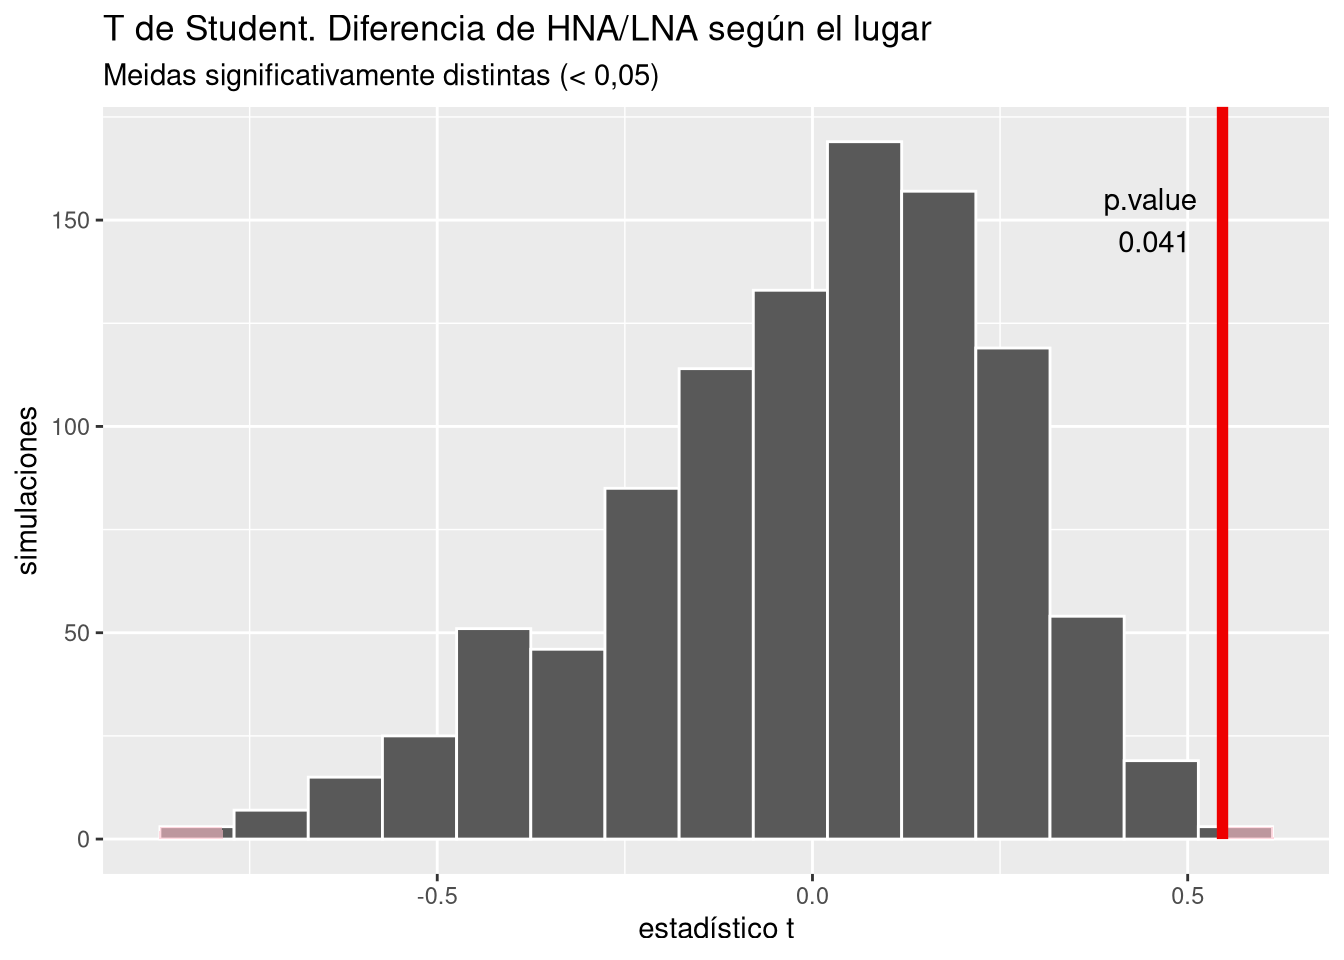
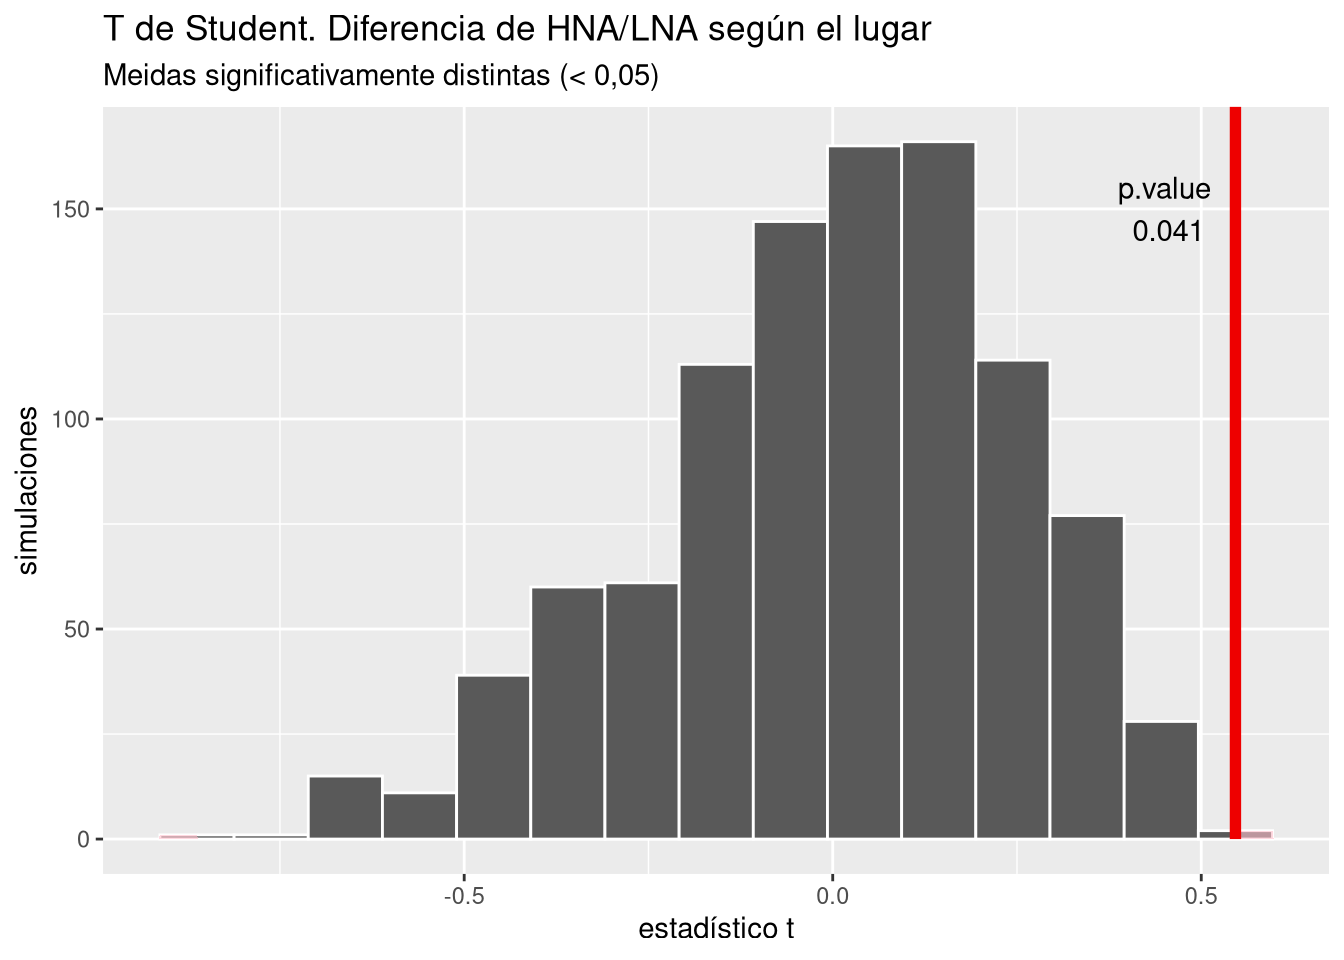
Añadido ANOVA de ratio HNA/LNA según el mes

diff --git a/docs/citometria.html b/docs/citometria.html
@@ -403,6 +403,20 @@ Figura&nbsp;10
 </div>
 </div>
 </div>
+<div class="cell">
+<div class="cell-output-display">
+<div id="fig-f-ratio-mes" class="quarto-float quarto-figure quarto-figure-center anchored" width="672">
+<figure class="quarto-float quarto-float-fig figure">
+<div aria-describedby="fig-f-ratio-mes-caption-0ceaefa1-69ba-4598-a22c-09a6ac19f8ca">
+<img src="citometria_files/figure-html/fig-f-ratio-mes-1.png" id="fig-f-ratio-mes" class="img-fluid figure-img" width="672">
+</div>
+<figcaption class="quarto-float-caption-bottom quarto-float-caption quarto-float-fig quarto-uncaptioned" id="fig-f-ratio-mes-caption-0ceaefa1-69ba-4598-a22c-09a6ac19f8ca">
+Figura&nbsp;11
+</figcaption>
+</figure>
+</div>
+</div>
+</div>
 
 
 
